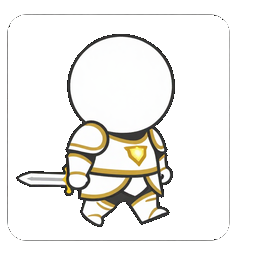
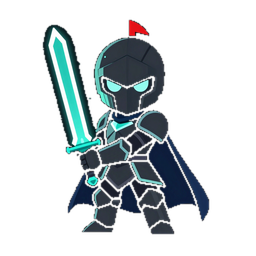
🎨 신규 에셋 12프레임 — 다크 나이트 주인공 + 동료 3종 애니메이션 (광전사/수호자/그림자)

diff --git a/game-logic.js b/game-logic.js
@@ -3,16 +3,49 @@
 
 // ===== 스테이지 구성 (계획서 2.3절) =====
 const CONFIG = {
-  STAGES: [
-    { time: 120, ratio: { basic: 1, fast: 0, tanky: 0, ranged: 0 }, clearKills: 20, boss: false },
-    { time: 150, ratio: { basic: 0.7, fast: 0.3, tanky: 0, ranged: 0 }, clearKills: 30, boss: false },
-    { time: 180, ratio: { basic: 0.5, fast: 0.25, tanky: 0.15, ranged: 0.1 }, clearKills: 40, boss: false },
-    { time: 180, ratio: { basic: 0.4, fast: 0.25, tanky: 0.2, ranged: 0.15 }, clearKills: 50, boss: false },
-    { time: 210, ratio: { basic: 0.35, fast: 0.25, tanky: 0.2, ranged: 0.2 }, clearKills: 60, boss: true }, // miniboss
-    { time: 210, ratio: { basic: 0.3, fast: 0.25, tanky: 0.25, ranged: 0.2 }, clearKills: 80, boss: false },
-    { time: 240, ratio: { basic: 0.25, fast: 0.25, tanky: 0.25, ranged: 0.25 }, clearKills: 100, boss: false },
-    { time: 270, ratio: { basic: 0.2, fast: 0.25, tanky: 0.25, ranged: 0.3 }, clearKills: 0, boss: true }, // final boss
-  ],
+  // 30 스테이지 — S5/10/15/20/25 미니보스, S30 최종보스 (S1–8은 원 밸런스 유지)
+  STAGES: (function buildStages() {
+    const N = 30;
+    const r2 = x => Math.round(x * 100) / 100;
+    const legacy = [
+      { time: 120, ratio: { basic: 1, fast: 0, tanky: 0, ranged: 0 }, clearKills: 20 },
+      { time: 150, ratio: { basic: 0.7, fast: 0.3, tanky: 0, ranged: 0 }, clearKills: 30 },
+      { time: 180, ratio: { basic: 0.5, fast: 0.25, tanky: 0.15, ranged: 0.1 }, clearKills: 40 },
+      { time: 180, ratio: { basic: 0.4, fast: 0.25, tanky: 0.2, ranged: 0.15 }, clearKills: 50 },
+      { time: 210, ratio: { basic: 0.35, fast: 0.25, tanky: 0.2, ranged: 0.2 }, clearKills: 60, mini: true },
+      { time: 210, ratio: { basic: 0.3, fast: 0.25, tanky: 0.25, ranged: 0.2 }, clearKills: 80 },
+      { time: 240, ratio: { basic: 0.25, fast: 0.25, tanky: 0.25, ranged: 0.25 }, clearKills: 100 },
+      { time: 270, ratio: { basic: 0.2, fast: 0.25, tanky: 0.25, ranged: 0.3 }, clearKills: 100 }, // S8: 최종 제거 → 일반 스테이지
+    ];
+    const arr = [];
+    for (let s = 1; s <= N; s++) {
+      const isFinal = s === N;
+      const isMini = !isFinal && s % 5 === 0;
+      let ratio, time, clearKills, boss = false;
+      if (s <= 8) {
+        const L = legacy[s - 1];
+        ratio = L.ratio; time = L.time; clearKills = L.clearKills;
+        boss = !!L.mini;
+      } else if (!isFinal) {
+        const u = (s - 8) / (N - 9); // s9..s29 → 0.048..1 (S8 밸런스를 유지하며 S29까지 보간)
+        const basic = r2(0.2 + (0.1 - 0.2) * u);
+        const fast = r2(0.25 + (0.25 - 0.25) * u);
+        const tanky = r2(0.25 + (0.3 - 0.25) * u);
+        const ranged = r2(1 - basic - fast - tanky); // 합=1 보정
+        ratio = { basic, fast, tanky, ranged };
+        time = Math.min(300, 240 + s * 5);
+        clearKills = 100 + (s - 9) * 5; // s9:105 → s29:200
+        boss = isMini;
+      } else {
+        ratio = { basic: 0.1, fast: 0.25, tanky: 0.3, ranged: 0.35 };
+        time = 999; clearKills = 0; boss = true;
+      }
+      const stg = { time, ratio, clearKills, boss };
+      if (boss) stg.bossType = isFinal ? 'boss' : 'miniboss';
+      arr.push(stg);
+    }
+    return arr;
+  })(),
   ENEMIES: {
     basic:    { hp: 30,  speed: 90,  dmg: 14, xp: 2  },
     fast:     { hp: 15,  speed: 170, dmg: 12, xp: 2  },
@@ -20,6 +53,18 @@ const CONFIG = {
     ranged:   { hp: 20,  speed: 80,  dmg: 18, xp: 3  },
     miniboss: { hp: 800, speed: 70,  dmg: 30, xp: 30 },
     boss:     { hp: 12000, speed: 70, dmg: 40, xp: 150 },
+  },
+  // ===== 아이템 드랍 (아이템별 확률 — 항상 드랍 아님) =====
+  // 일반 몬스터: 아이템마다 독립 롤, p = weight/100 × ITEM_DROP_BASE (합계 ≈8%)
+  // 미니보스: 확정 1개 / 최종보스: 확정 3개 (가중치 롤)
+  ITEM_DROP_BASE: 0.08,
+  ITEMS: {
+    heart:  { label: '❤',  name: '최대HP+15',        color: '#ff6b9d', weight: 22 },
+    gem:    { label: '💎', name: '공격+8% (영구)', color: '#c084fc', weight: 16 },
+    rage:   { label: '🔥', name: '데미지 2배 8초',  color: '#ff9f1c', weight: 18 },
+    haste:  { label: '👟', name: '이동속도+50% 8초', color: '#4dabf7', weight: 18 },
+    mend:   { label: '✚',  name: 'HP 50% 회복',   color: '#69db7c', weight: 16 },
+    magnet: { label: '🧲', name: '자석: 아이템 흡인',   color: '#ffd166', weight: 10 },
   },
   SKILLS: {
     fireball: [
@@ -145,6 +190,22 @@ function rollEnemyType(stage, rand) {
   return 'basic';
 }
 
+// ===== 아이템 드랍 (확률적) =====
+// 아이템별 드랍 확률: weight/100 × ITEM_DROP_BASE (0 < p < 1)
+function itemDropChance(id) {
+  const it = CONFIG.ITEMS[id];
+  return it ? it.weight / 100 * CONFIG.ITEM_DROP_BASE : 0;
+}
+// 가중치 롤 (미니보스/최종보스 확정 드랍용)
+function rollItem(rand) {
+  rand = rand || Math.random;
+  const items = CONFIG.ITEMS;
+  const total = Object.values(items).reduce((s, it) => s + it.weight, 0);
+  let r = rand() * total;
+  for (const id in items) { r -= items[id].weight; if (r < 0) return id; }
+  return 'heart';
+}
+
 // ===== 스킬 통계 =====
 function skillStats(id, level) {
   if (!id || !level || level < 1 || level > MAX_SKILL_LEVEL) return null;
@@ -199,8 +260,8 @@ function makeRng(seed) {
 
 // ===== Export =====
 if (typeof module !== 'undefined') {
-  module.exports = { CONFIG, xpForLevel, levelFromXp, spawnInterval, enemyHpScale, enemyDmgScale, rollEnemyType, skillStats, rollSkillChoices, makeRng };
+  module.exports = { CONFIG, xpForLevel, levelFromXp, spawnInterval, enemyHpScale, enemyDmgScale, rollEnemyType, itemDropChance, rollItem, skillStats, rollSkillChoices, makeRng };
 }
 if (typeof window !== 'undefined') {
-  window.GameLogic = { CONFIG, xpForLevel, levelFromXp, spawnInterval, enemyHpScale, enemyDmgScale, rollEnemyType, skillStats, rollSkillChoices, makeRng };
+  window.GameLogic = { CONFIG, xpForLevel, levelFromXp, spawnInterval, enemyHpScale, enemyDmgScale, rollEnemyType, itemDropChance, rollItem, skillStats, rollSkillChoices, makeRng };
 }

diff --git a/index.html b/index.html
@@ -190,6 +190,9 @@
     enemy_ranged: { fps: 7 },
     enemy_miniboss: { fps: 6 },
     enemy_boss: { fps: 6, seq: [0, 1, 2, 1] }, // 날개짓: 순환(팔린드롬) 시퀀스
+    comp_warrior: { fps: 6 },
+    comp_guardian: { fps: 5 },
+    comp_shadow: { fps: 8 },
   };
   const ANIM = {};
   for (const an in ANIM_SPECS) {
@@ -1005,13 +1008,16 @@
     if (G.companion) {
       const c = G.companion;
       const cdef = CONFIG.COMPANIONS.find(x => x.id === c.id);
-      ctx.fillStyle = COMP_COLORS[c.id] || '#ffffff';
-      ctx.beginPath(); ctx.arc(c.x, c.y, 11, 0, Math.PI * 2); ctx.fill();
-      ctx.strokeStyle = 'rgba(255,255,255,0.7)'; ctx.lineWidth = 2;
-      ctx.beginPath(); ctx.arc(c.x, c.y, 11, 0, Math.PI * 2); ctx.stroke();
-      ctx.font = '14px sans-serif'; ctx.textAlign = 'center'; ctx.textBaseline = 'middle';
-      ctx.fillText(cdef ? cdef.icon : '❔', c.x, c.y);
-      ctx.textAlign = 'start'; ctx.textBaseline = 'alphabetic';
+      const cdrawn = drawSprite('comp_' + c.id, c.x, c.y, 26, G.time, true, 1);
+      if (!cdrawn) {
+        ctx.fillStyle = COMP_COLORS[c.id] || '#ffffff';
+        ctx.beginPath(); ctx.arc(c.x, c.y, 11, 0, Math.PI * 2); ctx.fill();
+        ctx.strokeStyle = 'rgba(255,255,255,0.7)'; ctx.lineWidth = 2;
+        ctx.beginPath(); ctx.arc(c.x, c.y, 11, 0, Math.PI * 2); ctx.stroke();
+        ctx.font = '14px sans-serif'; ctx.textAlign = 'center'; ctx.textBaseline = 'middle';
+        ctx.fillText(cdef ? cdef.icon : '❔', c.x, c.y);
+        ctx.textAlign = 'start'; ctx.textBaseline = 'alphabetic';
+      }
     }
     // 스래시
     for (const s of G.slashes) {
